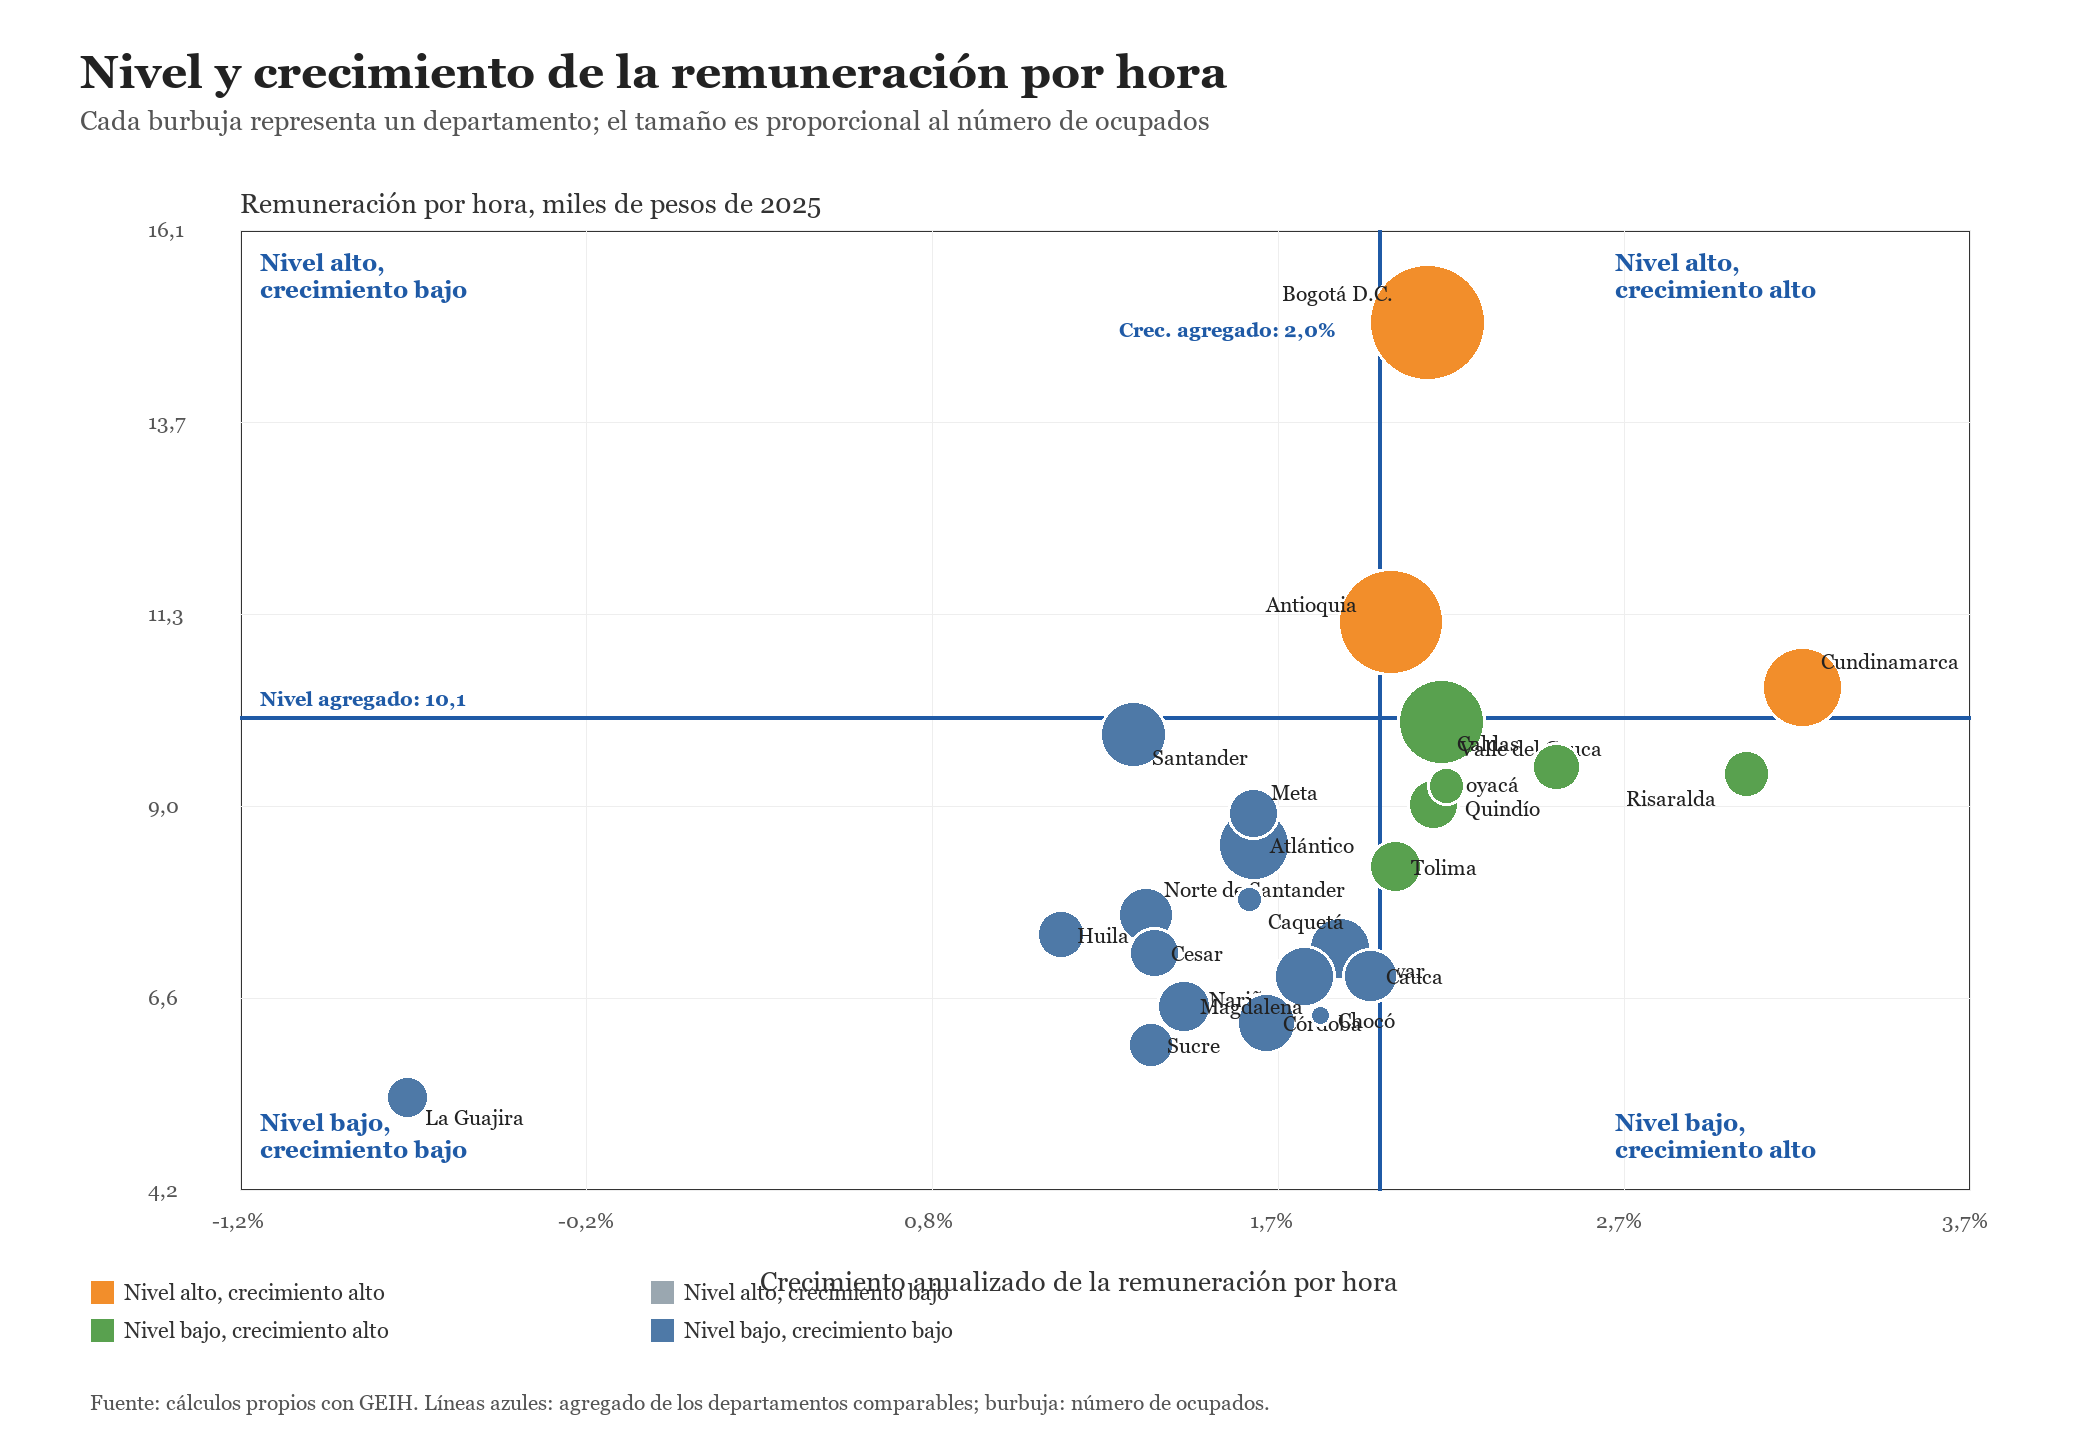
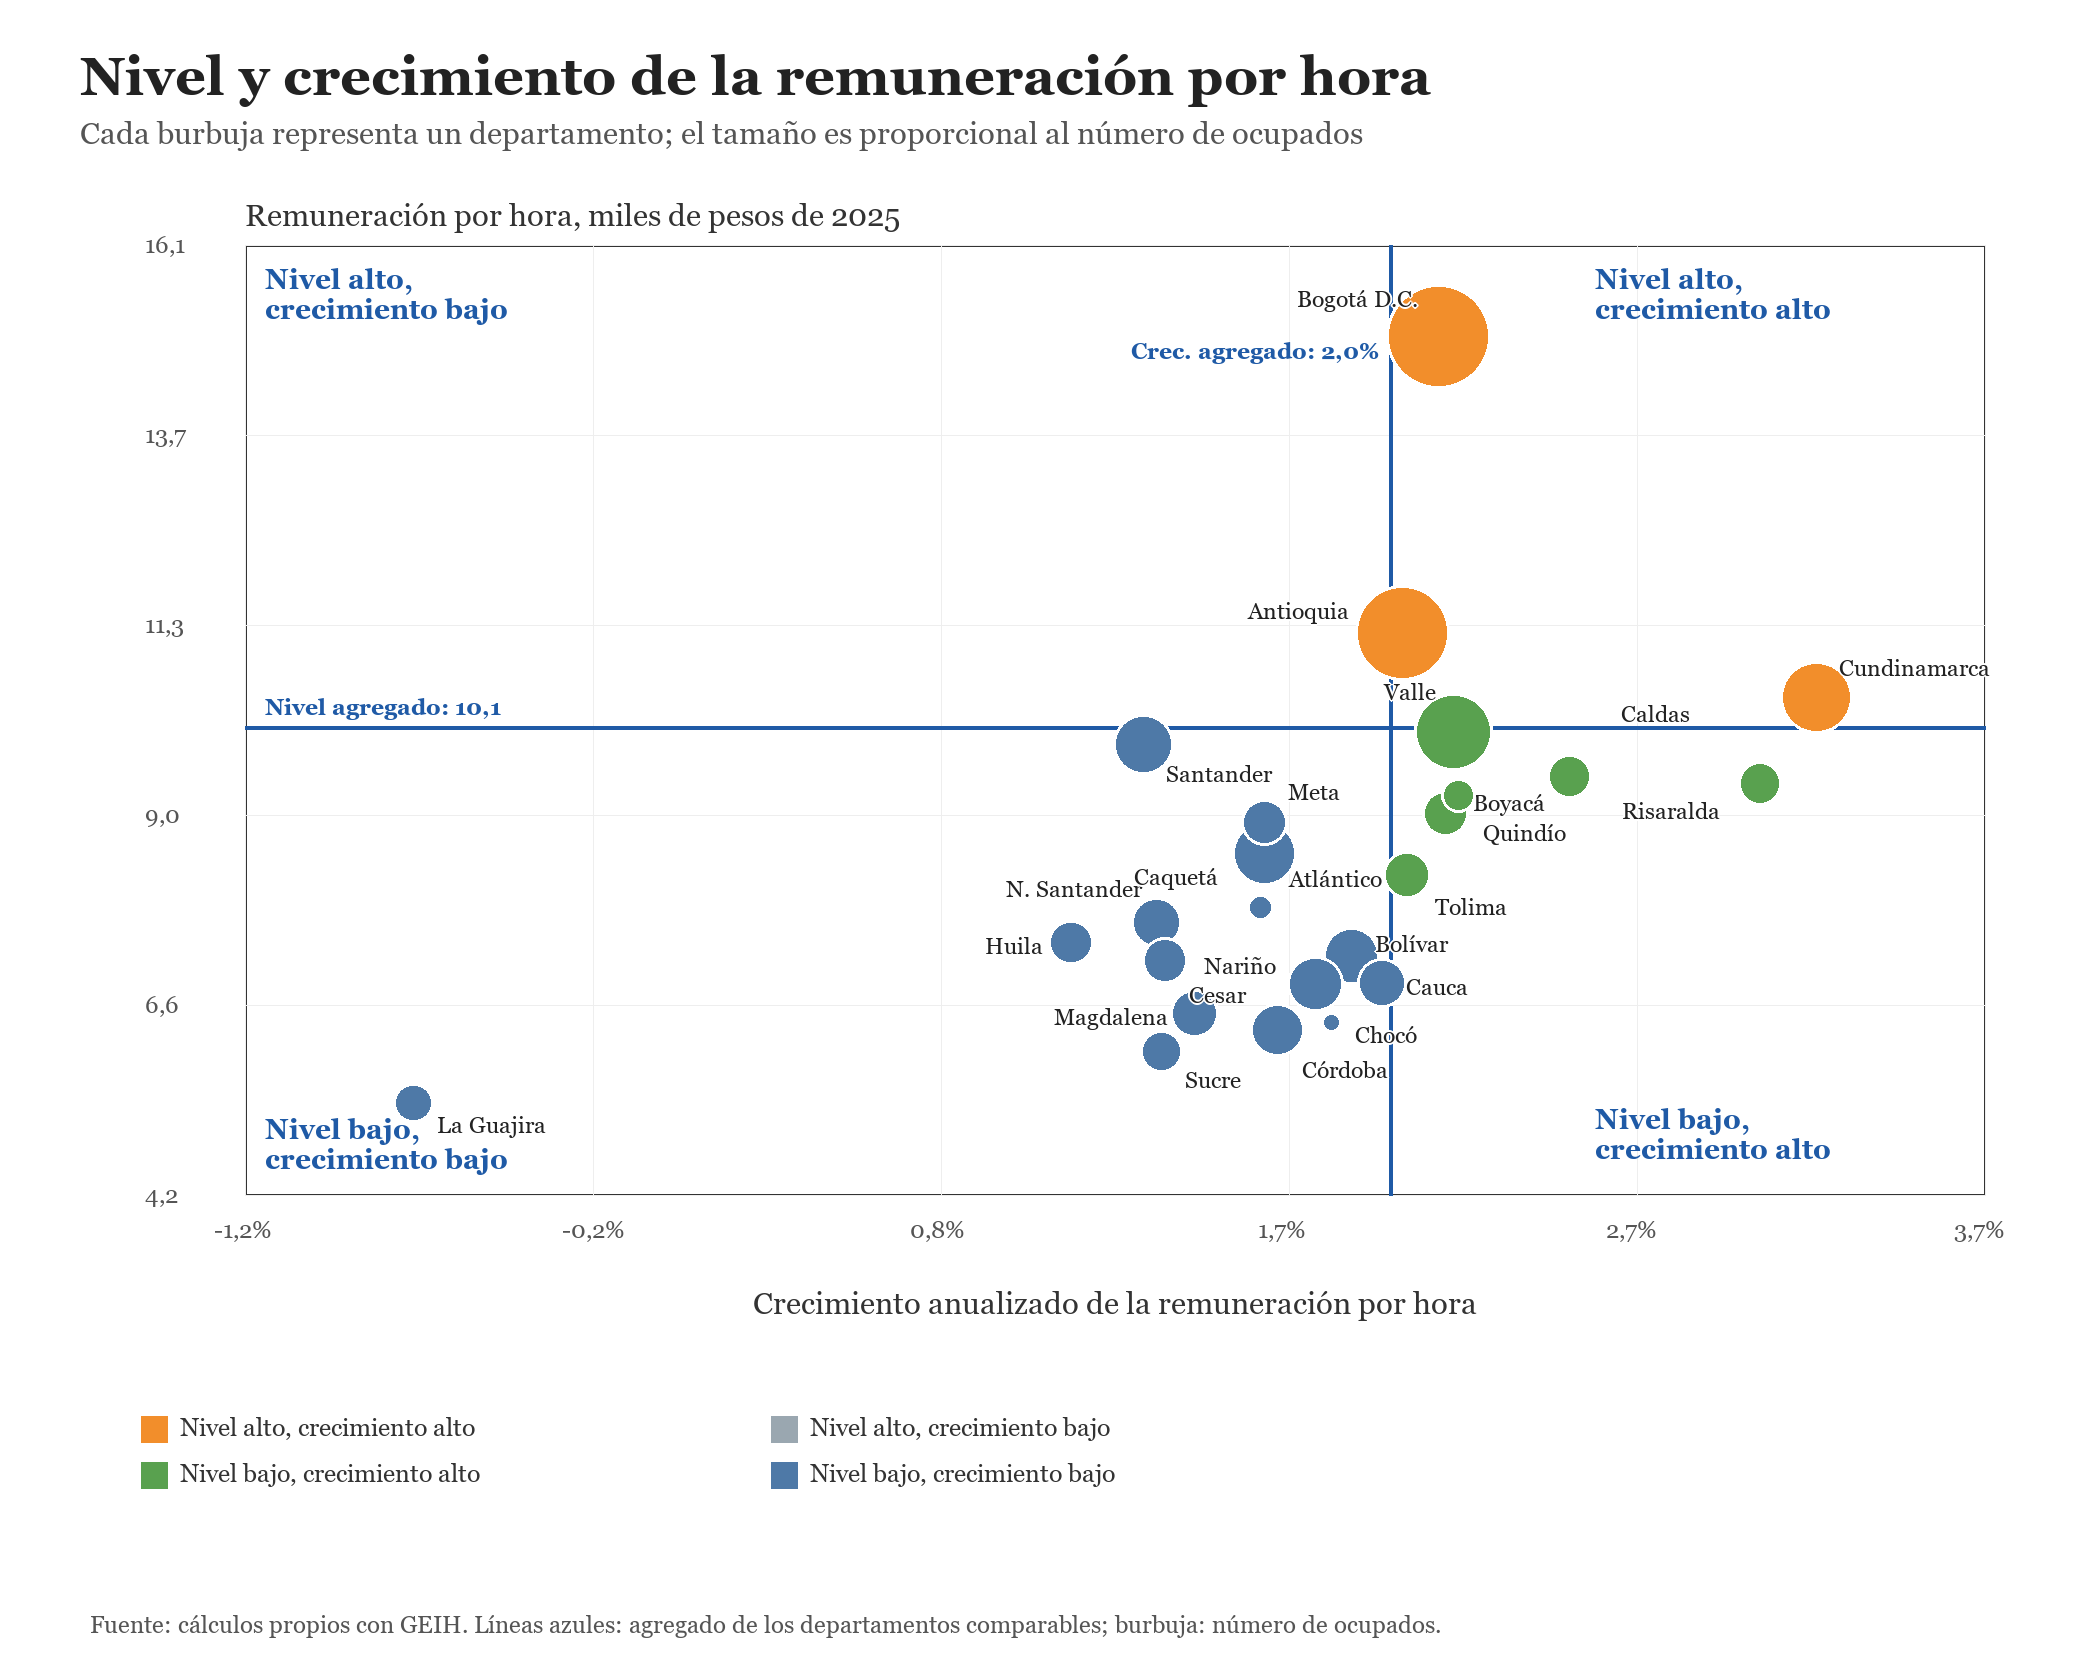
Mejorar legibilidad de cuadrantes departamentales

diff --git a/Code/02.8_Informes_Departamentales.py b/Code/02.8_Informes_Departamentales.py
@@ -1215,13 +1215,13 @@ def draw_quadrant_bubble_chart(
         "cuadrante",
     )
 
-    width, height = 2100, 1450
+    width, height = 2100, 1680
     img = Image.new("RGB", (width, height), "white")
     draw = ImageDraw.Draw(img)
-    draw.text((80, 45), title, fill="#222222", font=font(46, True))
-    draw.text((80, 105), subtitle, fill="#555555", font=font(27))
+    draw.text((80, 45), title, fill="#222222", font=font(54, True))
+    draw.text((80, 115), subtitle, fill="#555555", font=font(31))
 
-    plot_left, plot_top, plot_right, plot_bottom = 240, 230, 1970, 1190
+    plot_left, plot_top, plot_right, plot_bottom = 245, 245, 1985, 1195
     x_min = min(data["x_value"].min(), growth_ref * 100)
     x_max = max(data["x_value"].max(), growth_ref * 100)
     y_min = min(data["y_value"].min(), level_ref)
@@ -1245,66 +1245,88 @@ def draw_quadrant_bubble_chart(
         draw.line((plot_left, y, plot_right, y), fill="#eeeeee", width=1)
         x_tick = x_min + i / 5 * (x_max - x_min)
         y_tick = y_min + (5 - i) / 5 * (y_max - y_min)
-        draw.text((x - 28, plot_bottom + 18), f"{fmt_num_es(x_tick, 1)}%", fill="#555555", font=font(21))
-        draw.text((plot_left - 92, y - 13), fmt_num_es(y_tick, 1), fill="#555555", font=font(21))
+        draw.text((x - 31, plot_bottom + 20), f"{fmt_num_es(x_tick, 1)}%", fill="#555555", font=font(24))
+        draw.text((plot_left - 100, y - 15), fmt_num_es(y_tick, 1), fill="#555555", font=font(24))
 
     x_ref = growth_ref * 100
     y_ref = level_ref
     draw.line((xp(x_ref), plot_top, xp(x_ref), plot_bottom), fill="#1f5aa6", width=4)
     draw.line((plot_left, yp(y_ref), plot_right, yp(y_ref)), fill="#1f5aa6", width=4)
     x_ref_label = max(plot_left + 20, xp(x_ref) - 260)
-    draw.text((x_ref_label, plot_top + 88), f"Crec. agregado: {fmt_num_es(x_ref, 1)}%", fill="#1f5aa6", font=font(20, True))
-    draw.text((plot_left + 20, yp(y_ref) - 30), f"Nivel agregado: {fmt_num_es(y_ref, 1)}", fill="#1f5aa6", font=font(20, True))
+    draw.text((x_ref_label, plot_top + 92), f"Crec. agregado: {fmt_num_es(x_ref, 1)}%", fill="#1f5aa6", font=font(23, True))
+    draw.text((plot_left + 20, yp(y_ref) - 34), f"Nivel agregado: {fmt_num_es(y_ref, 1)}", fill="#1f5aa6", font=font(23, True))
 
-    corner_font = font(24, True)
+    corner_font = font(28, True)
     draw.text((plot_left + 20, plot_top + 18), "Nivel alto,\ncrecimiento bajo", fill="#1f5aa6", font=corner_font)
-    draw.text((plot_right - 355, plot_top + 18), "Nivel alto,\ncrecimiento alto", fill="#1f5aa6", font=corner_font)
+    draw.text((plot_right - 390, plot_top + 18), "Nivel alto,\ncrecimiento alto", fill="#1f5aa6", font=corner_font)
     draw.text((plot_left + 20, plot_bottom - 82), "Nivel bajo,\ncrecimiento bajo", fill="#1f5aa6", font=corner_font)
-    draw.text((plot_right - 355, plot_bottom - 82), "Nivel bajo,\ncrecimiento alto", fill="#1f5aa6", font=corner_font)
+    draw.text((plot_right - 390, plot_bottom - 92), "Nivel bajo,\ncrecimiento alto", fill="#1f5aa6", font=corner_font)
 
     max_occ = data["ocupados_fin"].max()
     min_occ = data["ocupados_fin"].min()
     label_offsets = {
-        "Bogotá D.C.": (-145, -42),
-        "Antioquia": (-125, -30),
-        "Cundinamarca": (18, -38),
-        "Valle del Cauca": (18, 14),
-        "Santander": (18, 10),
-        "Meta": (18, -34),
-        "Caldas": (-100, -36),
-        "Risaralda": (-120, 12),
-        "Quindío": (18, 10),
-        "Chocó": (18, -8),
-        "Caquetá": (18, 10),
-        "Nariño": (-95, 10),
-        "La Guajira": (18, 8),
-        "Bolívar": (18, 10),
-        "Boyacá": (18, -32),
-        "Norte de Santander": (18, -38),
+        "Bogotá D.C.": (-142, -52),
+        "Antioquia": (-155, -36),
+        "Cundinamarca": (22, -44),
+        "Valle del Cauca": (-70, -54),
+        "Santander": (22, 16),
+        "Meta": (24, -44),
+        "Caldas": (52, -76),
+        "Risaralda": (-138, 14),
+        "Quindío": (24, 24),
+        "Chocó": (24, -2),
+        "Caquetá": (-126, -44),
+        "Nariño": (-112, -32),
+        "La Guajira": (24, 8),
+        "Bolívar": (24, -26),
+        "Boyacá": (28, -24),
+        "Norte de Santander": (-150, -48),
+        "Cauca": (24, -10),
+        "Tolima": (28, 18),
+        "Atlántico": (24, 12),
+        "Huila": (-86, -10),
+        "Cesar": (24, 20),
+        "Magdalena": (-140, -10),
+        "Córdoba": (24, 26),
+        "Sucre": (24, 14),
     }
+    display_labels = {
+        "Bogotá D.C.": "Bogotá D.C.",
+        "Norte de Santander": "N. Santander",
+        "Valle del Cauca": "Valle",
+    }
+    label_font = font(23)
+
+    def draw_label(x_pos: float, y_pos: float, text: str) -> None:
+        for ox, oy in [(-2, 0), (2, 0), (0, -2), (0, 2), (-1, -1), (-1, 1), (1, -1), (1, 1)]:
+            draw.text((x_pos + ox, y_pos + oy), text, fill="white", font=label_font)
+        draw.text((x_pos, y_pos), text, fill="#222222", font=label_font)
+
     for _, row in data.sort_values("ocupados_fin", ascending=False).iterrows():
         x = xp(float(row["x_value"]))
         y = yp(float(row["y_value"]))
-        radius = 11 + 48 * math.sqrt((row["ocupados_fin"] - min_occ) / max(max_occ - min_occ, 1))
+        radius = 10 + 42 * math.sqrt((row["ocupados_fin"] - min_occ) / max(max_occ - min_occ, 1))
         fill = hex_to_rgb(QUADRANT_COLORS[str(row["cuadrante"])])
         draw.ellipse((x - radius, y - radius, x + radius, y + radius), fill=fill, outline="white", width=3)
         dx, dy = label_offsets.get(row["departamento"], (16, -12))
-        draw.text((x + dx, y + dy), row["departamento"], fill="#222222", font=font(21))
+        draw_label(x + dx, y + dy, display_labels.get(row["departamento"], row["departamento"]))
 
-    draw.text((plot_left + 520, plot_bottom + 76), x_label, fill="#333333", font=font(27))
-    draw.text((plot_left, plot_top - 42), y_label, fill="#333333", font=font(27))
+    x_label_font = font(31)
+    x_label_width = draw.textlength(x_label, font=x_label_font)
+    draw.text((plot_left + (plot_right - plot_left - x_label_width) / 2, plot_bottom + 90), x_label, fill="#333333", font=x_label_font)
+    draw.text((plot_left, plot_top - 48), y_label, fill="#333333", font=font(31))
 
-    legend_x, legend_y = 90, 1280
+    legend_x, legend_y = 140, 1415
     for idx, (label, color) in enumerate(QUADRANT_COLORS.items()):
-        x = legend_x + (idx % 2) * 560
-        y = legend_y + (idx // 2) * 38
-        draw.rectangle((x, y, x + 24, y + 24), fill=hex_to_rgb(color), outline="#ffffff")
-        draw.text((x + 34, y - 1), label, fill="#333333", font=font(22))
+        x = legend_x + (idx % 2) * 630
+        y = legend_y + (idx // 2) * 46
+        draw.rectangle((x, y, x + 28, y + 28), fill=hex_to_rgb(color), outline="#ffffff")
+        draw.text((x + 40, y - 2), label, fill="#333333", font=font(25))
     draw.text(
-        (90, 1390),
+        (90, 1610),
         f"Fuente: cálculos propios con {source}. Líneas azules: agregado de los departamentos comparables; burbuja: número de ocupados.",
         fill="#555555",
-        font=font(21),
+        font=font(24),
     )
 
     for directory in [FIGURE_DIR, OUTPUT_FIGURE_DIR]:
